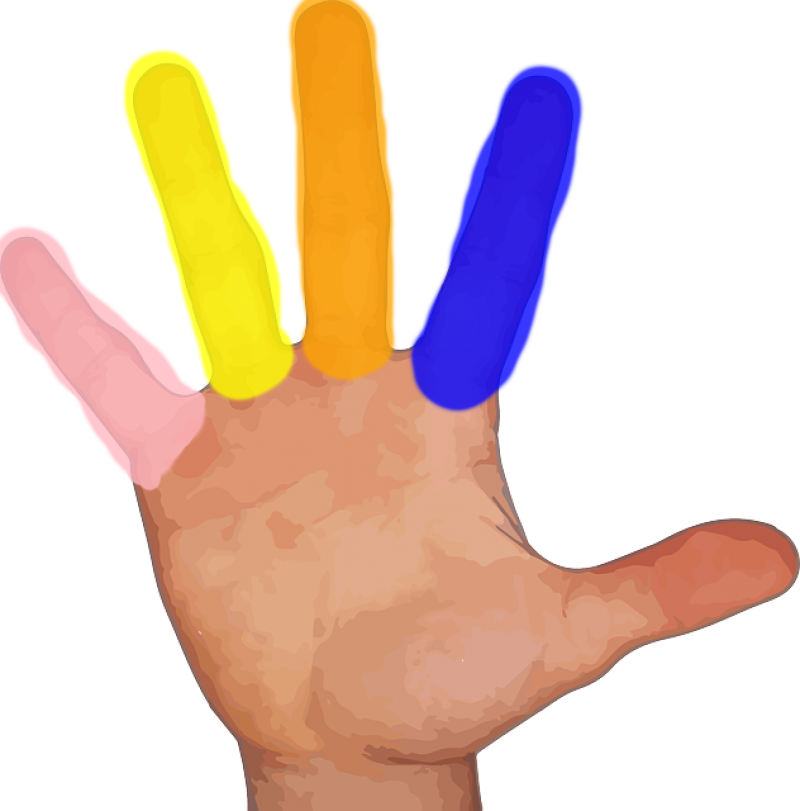
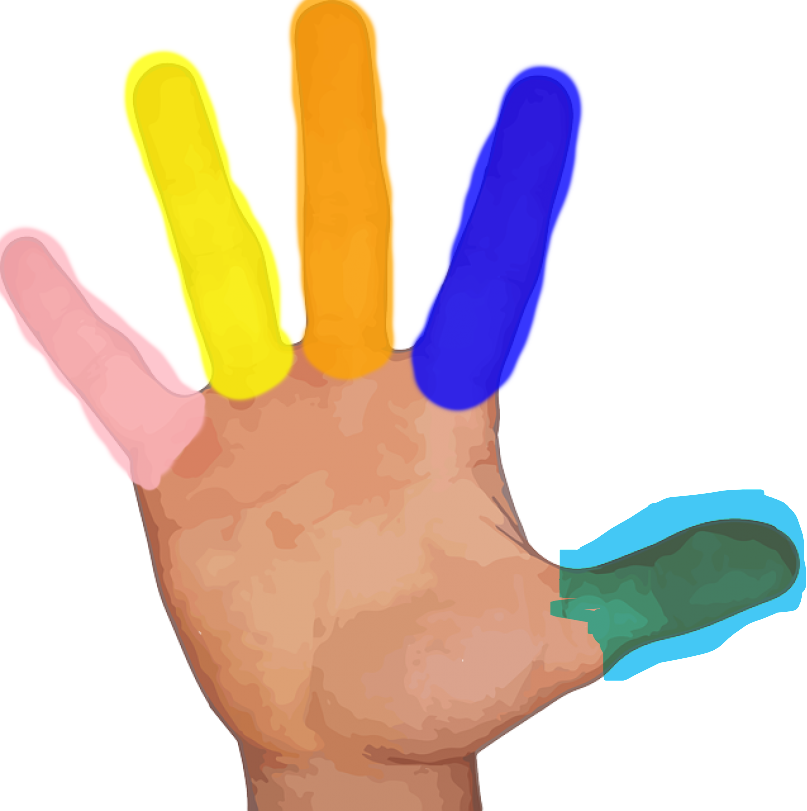
Update: Game_tutorial (see description)
Changes
-> Added Cyan color to hand
-> Added Instructions texts to tutorial
-> Enter button in debug mode: if u press it, it closes the game

diff --git a/Game/screens/tutorial_screen.py b/Game/screens/tutorial_screen.py
@@ -6,6 +6,12 @@ from entities.keyboard import Keyboard
 from entities.image import Image
 from entities.text import Text
 
+import pygame
+from entities.key_listener import KeyListener
+from resource.fonts import *
+from resource.color import *
+
+
 class Tutorial_Screen(Screen):
     def populate(self):
         self.keyboard = Keyboard(Game_Manager.screen_width * 0.2, Game_Manager.screen_height * 0.2)
@@ -13,3 +19,24 @@ class Tutorial_Screen(Screen):
                            center = (Game_Manager.screen_width * 0.7, Game_Manager.screen_height * 0.4),
                            width = Game_Manager.screen_width * 0.2,
                            height = Game_Manager.screen_height * 0.3)
+
+        # Return/Enter keyboard Listener -> "Press enter to pass the tutorial"
+        # Debug mode: It closes the game
+        self.return_listener = KeyListener([pygame.K_RETURN], [Game_Manager.close_game])
+
+        # Text setups
+        self.title = Text(content = "Como jogar",
+                              center=(Game_Manager.screen_width * 0.5, Game_Manager.screen_height * 0.1),
+                              size = 60,
+                              font = SEGA,
+                              color = WHITE)
+        self.say = Text(content="Teste o funcionamento do teu teclado aqui!",
+                          center=(Game_Manager.screen_width * 0.5, Game_Manager.screen_height * 0.2),
+                          size=40,
+                          font=SEGA,
+                          color=WHITE)
+        self.enter = Text(content = "Aperte ENTER para prosseguir",
+                              center=(Game_Manager.screen_width * 0.5, Game_Manager.screen_height * 0.8),
+                              size = 60,
+                              font = SEGA,
+                              color = WHITE)

diff --git a/Game/screens/game_screen.py b/Game/screens/game_screen.py
@@ -3,5 +3,4 @@ from screens.screen_base import Screen
 class Game_Screen(Screen):
     def populate(self):
         self.keyboard = Keyboard(Game_Manager.screen_width * 0.5, Game_Manager.screen_height * 0.5)
-
         pass
